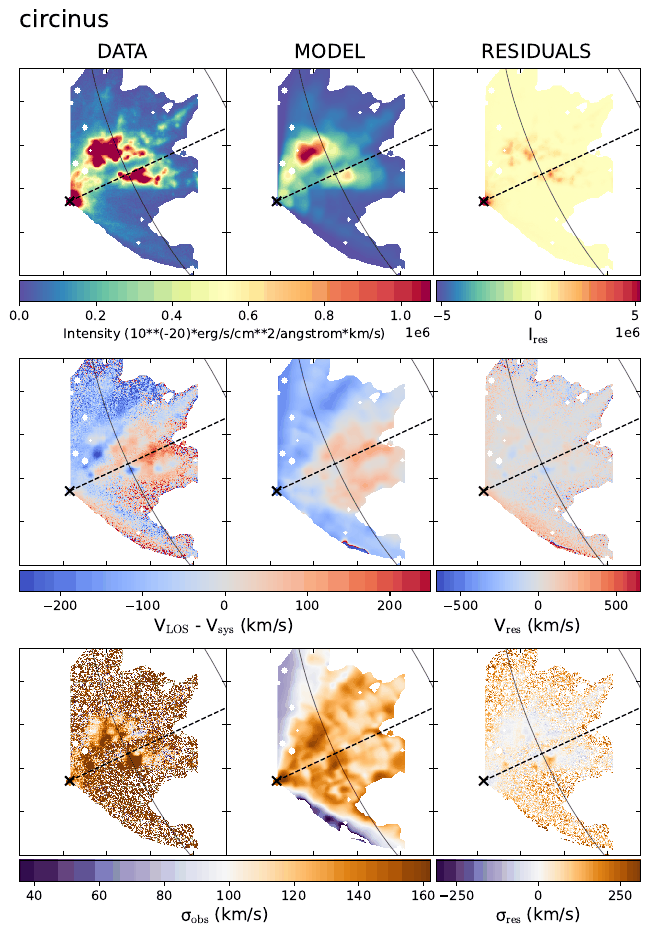
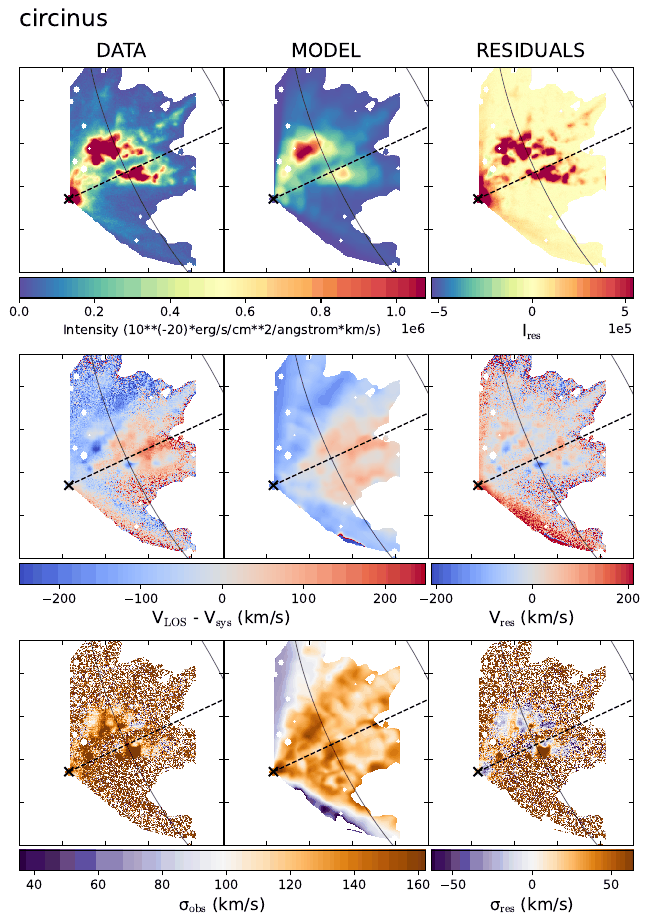
WINDFIT maps: the residual colour scale over 95% of the pixels
The scale of the residual maps (_maps_wind.pdf) covered 99.75% of the pixels, so a few large residuals (Circinus:
the nucleus) set it and the maps were almost uniform (total intensity +-5e6 for data up to 1e6, velocity +-580
km/s for data within +-230). It now covers 95% of the pixels, at most half the width of the colour bar of the
data, and large values get a multiplier, as the colour bar of the data.

diff --git a/bbarolo/bayesian/wind_plots.py b/bbarolo/bayesian/wind_plots.py
@@ -211,8 +211,12 @@ for i in range (3):
     axis.tick_params(labelbottom=False,labelleft=False,right=True,top=True,direction='in')
     nrm = norm
     if j==2:
+      # (the residuals: symmetric about 0, over 95% of the pixels, at most half the width of the colour bar of the
+      # data: the few largest residuals, e.g. at a bright nucleus, saturate instead of washing out the map)
       fin = np.isfinite(to_plot[j][i])
-      vv = np.nanmax(np.abs(interval.get_limits(to_plot[j][i][fin]))) if np.any(fin) else 1.
+      vv = float(np.percentile(np.abs(to_plot[j][i][fin]), 95)) if np.any(fin) else 1.
+      if vmax > vmin: vv = min(vv, 0.5*(vmax-vmin))
+      if not vv > 0: vv = 1.
       nrm = mpl.colors.Normalize(vmin=-vv, vmax=vv)
     pp = np.pad(to_plot[j][i]*maskmap,(pad_y, pad_x),mode='constant',constant_values=np.nan)
     axis.imshow(pp,origin='lower',cmap=cmap,norm=nrm,aspect='auto',extent=ext,interpolation='nearest')
@@ -228,6 +232,10 @@ for i in range (3):
   cb2 = ColorbarBase(cbax, orientation='horizontal', cmap=cmap, norm=nrm)
   cb2.set_label(barlab2[i],fontsize=13)
   cb2.ax.locator_params(nbins=3)
+  fmt = mpl.ticker.ScalarFormatter()
+  fmt.set_powerlimits((-3, 4))                       # (large residuals: a multiplier, as the colour bar of the data)
+  cb2.formatter = fmt
+  cb2.update_ticks()
 ax[0][0].text(0, 1.2, gname, transform=ax[0][0].transAxes,fontsize=18)
 fig.savefig(outfolder+outprefix+'_maps_wind.pdf', bbox_inches='tight')
 """

diff --git a/CHANGES.md b/CHANGES.md
@@ -843,7 +843,9 @@ Bugs marked **(C++)** are also in the C++ BBarolo 1.8; the others were introduce
 ### Changed
 
 - **The residual maps of WINDFIT (`_maps_wind.pdf`) have their own colour bar**, as those of 3DFIT: their scale,
-  symmetric about 0, was not shown.
+  symmetric about 0, was not shown. The scale covers 95% of the pixels, at most half the width of the colour bar
+  of the data; it covered 99.75%, so a few large residuals (Circinus: the nucleus, 10 times the next ones in total
+  intensity) set it and the map was almost uniform.
 
 - **The maps of the paths in `_pvslices_wind.pdf` (WINDFIT) are square**: the region of the plots padded with
   blanks, as the maps of 3DFIT, instead of the region alone, as tall or as wide as it is.
